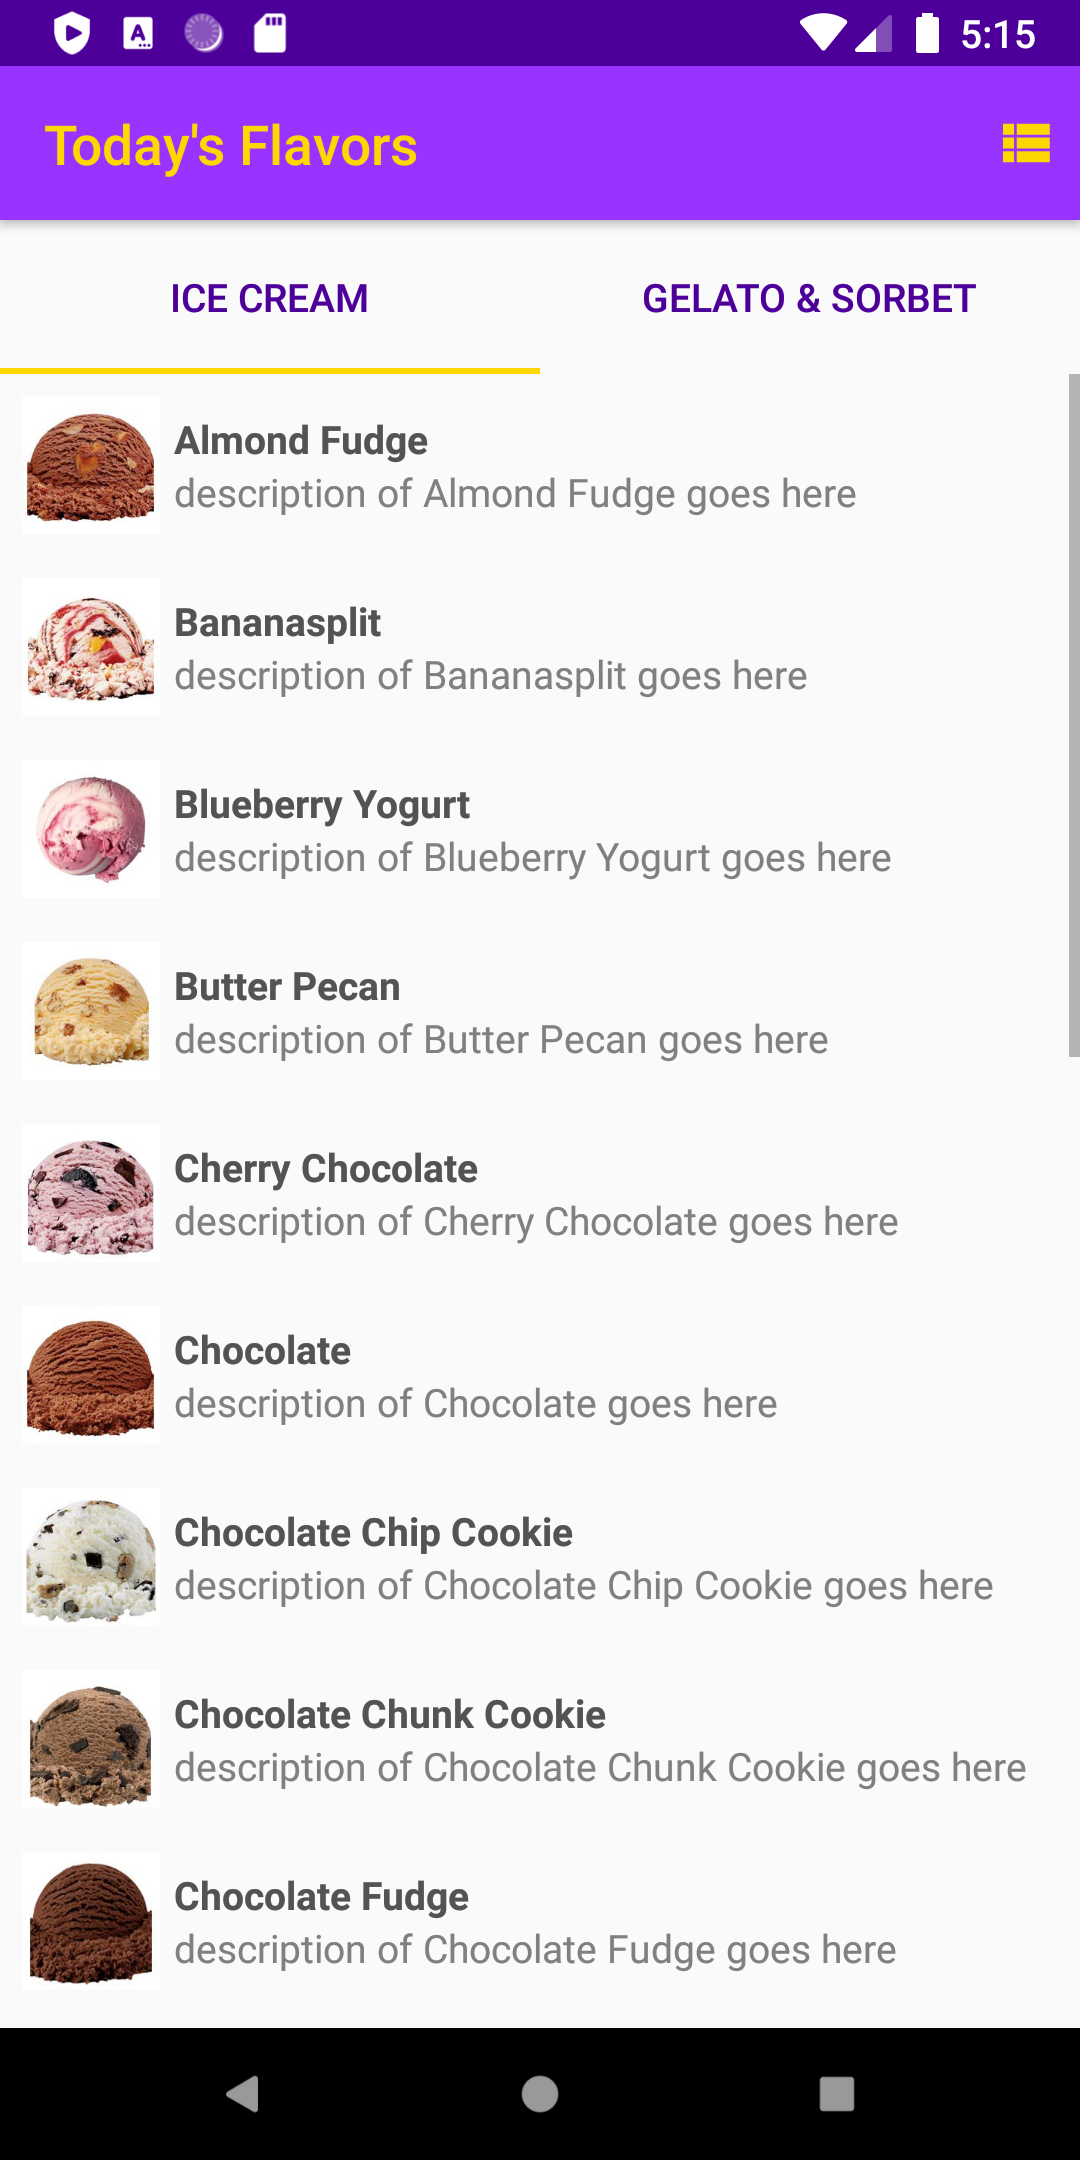
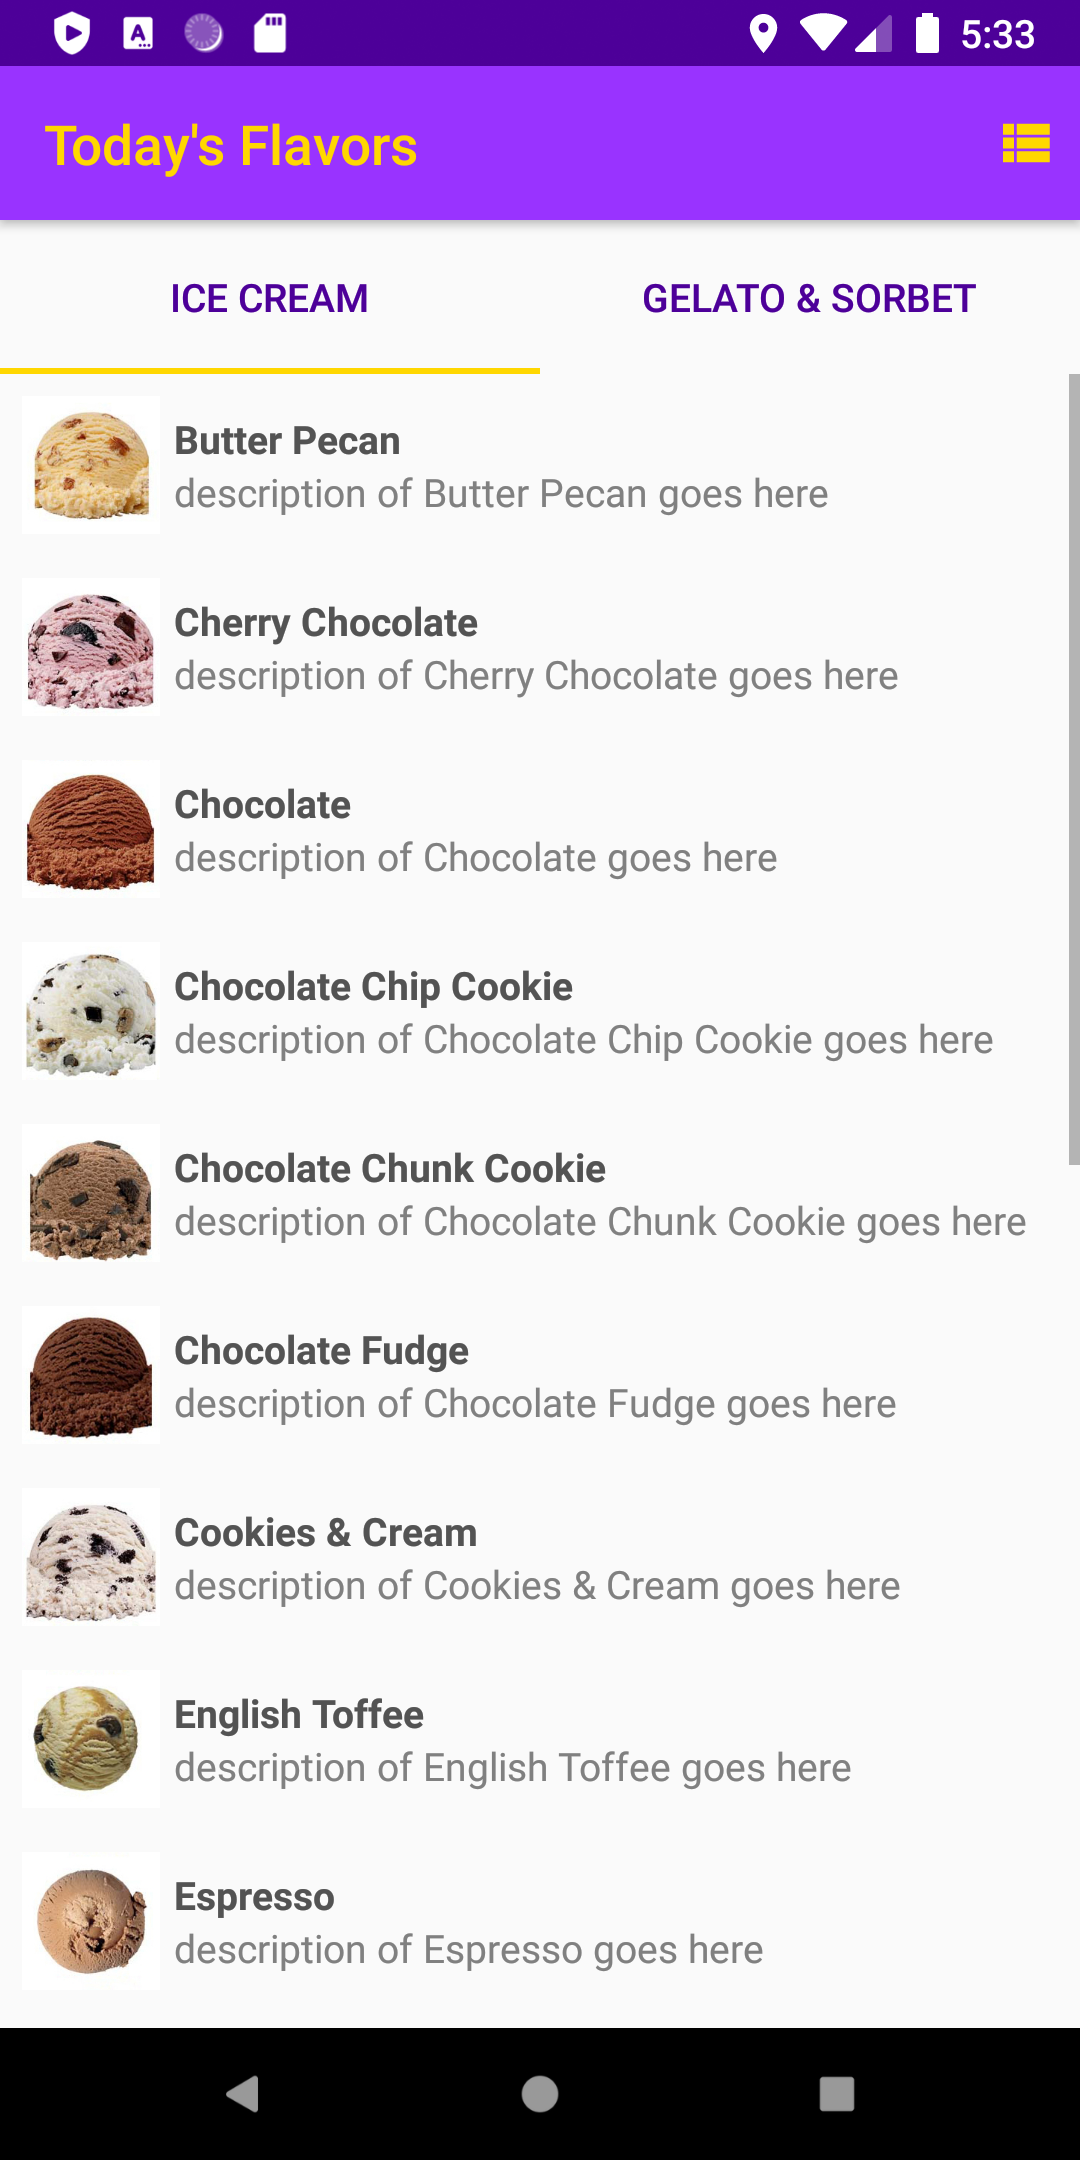
changed user screenshot
- first three sample flavors are hidden by default

diff --git a/IceCreamMenu/app/src/main/java/com/peterson/icecreammenu/MainActivity.java b/IceCreamMenu/app/src/main/java/com/peterson/icecreammenu/MainActivity.java
@@ -43,7 +43,7 @@ import java.util.List;
 public class MainActivity extends AppCompatActivity {
     public static final Boolean TESTING = false;
     public static Boolean hasCamera = false;
-    public static Boolean isAdmin = true;
+    public static Boolean isAdmin = false;
     public static Boolean INIT = true;
     public static final int VIEW_LIST = 0;
     public static final int VIEW_GRID = 1;
@@ -484,7 +484,11 @@ public class MainActivity extends AppCompatActivity {
 
             // create a new FlavorItem with this info and add it to the appropriate flavor list
             FlavorItem flavor = new FlavorItem(imgName, name, type, desc);
-            flavor.setAvailability(true);
+            // availability will be true for all flavors except these 3
+            if (!(name.equals("Almond Fudge")
+                    || name.equals("Bananasplit")
+                    || name.equals("Blueberry Yogurt")))
+                flavor.setAvailability(true);
             addFlavor(flavor);
 
             // create JSONObject from this new FlavorItem and add it to the jsonAllFlavors object,
